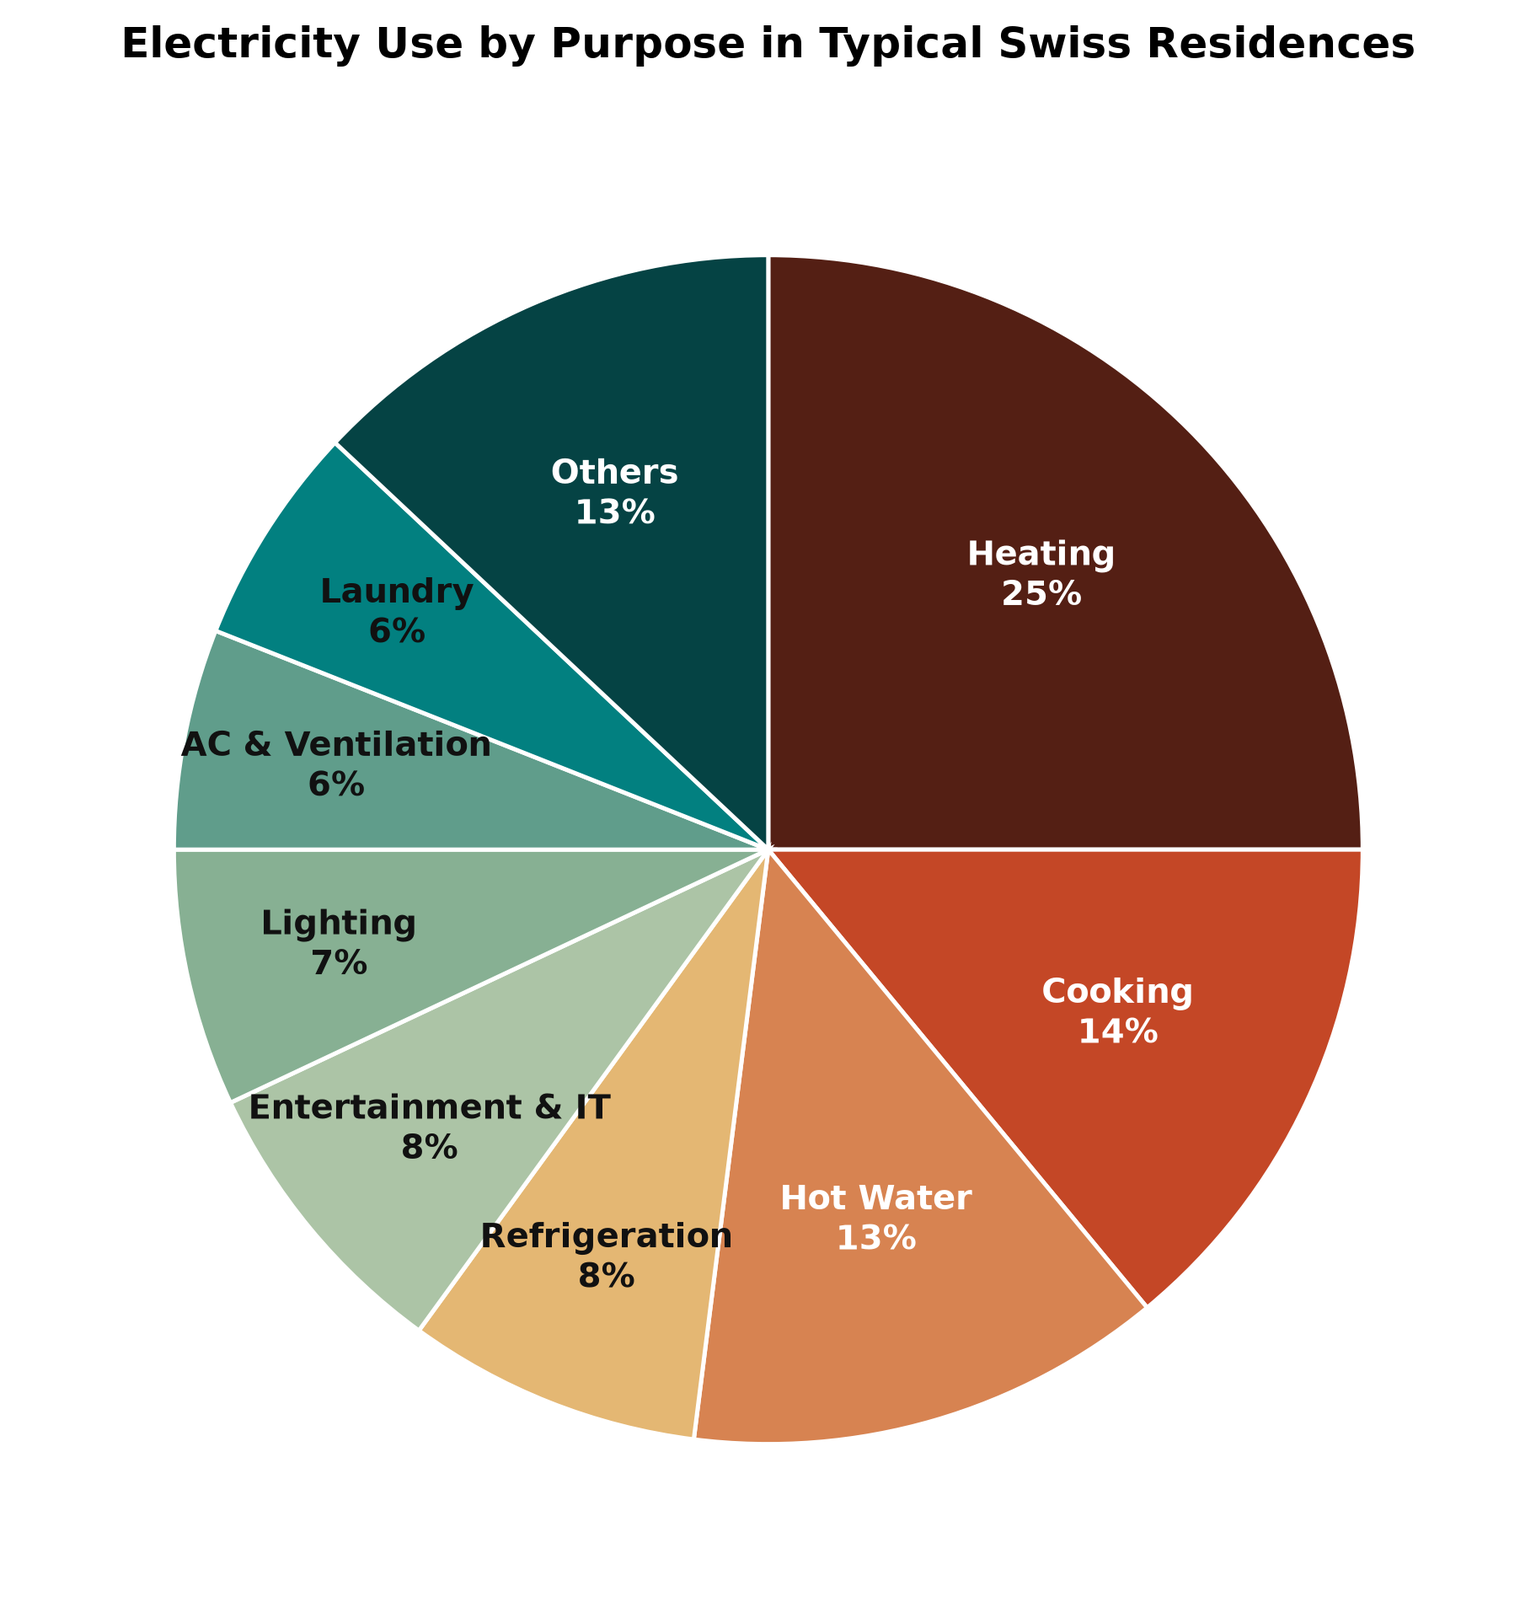
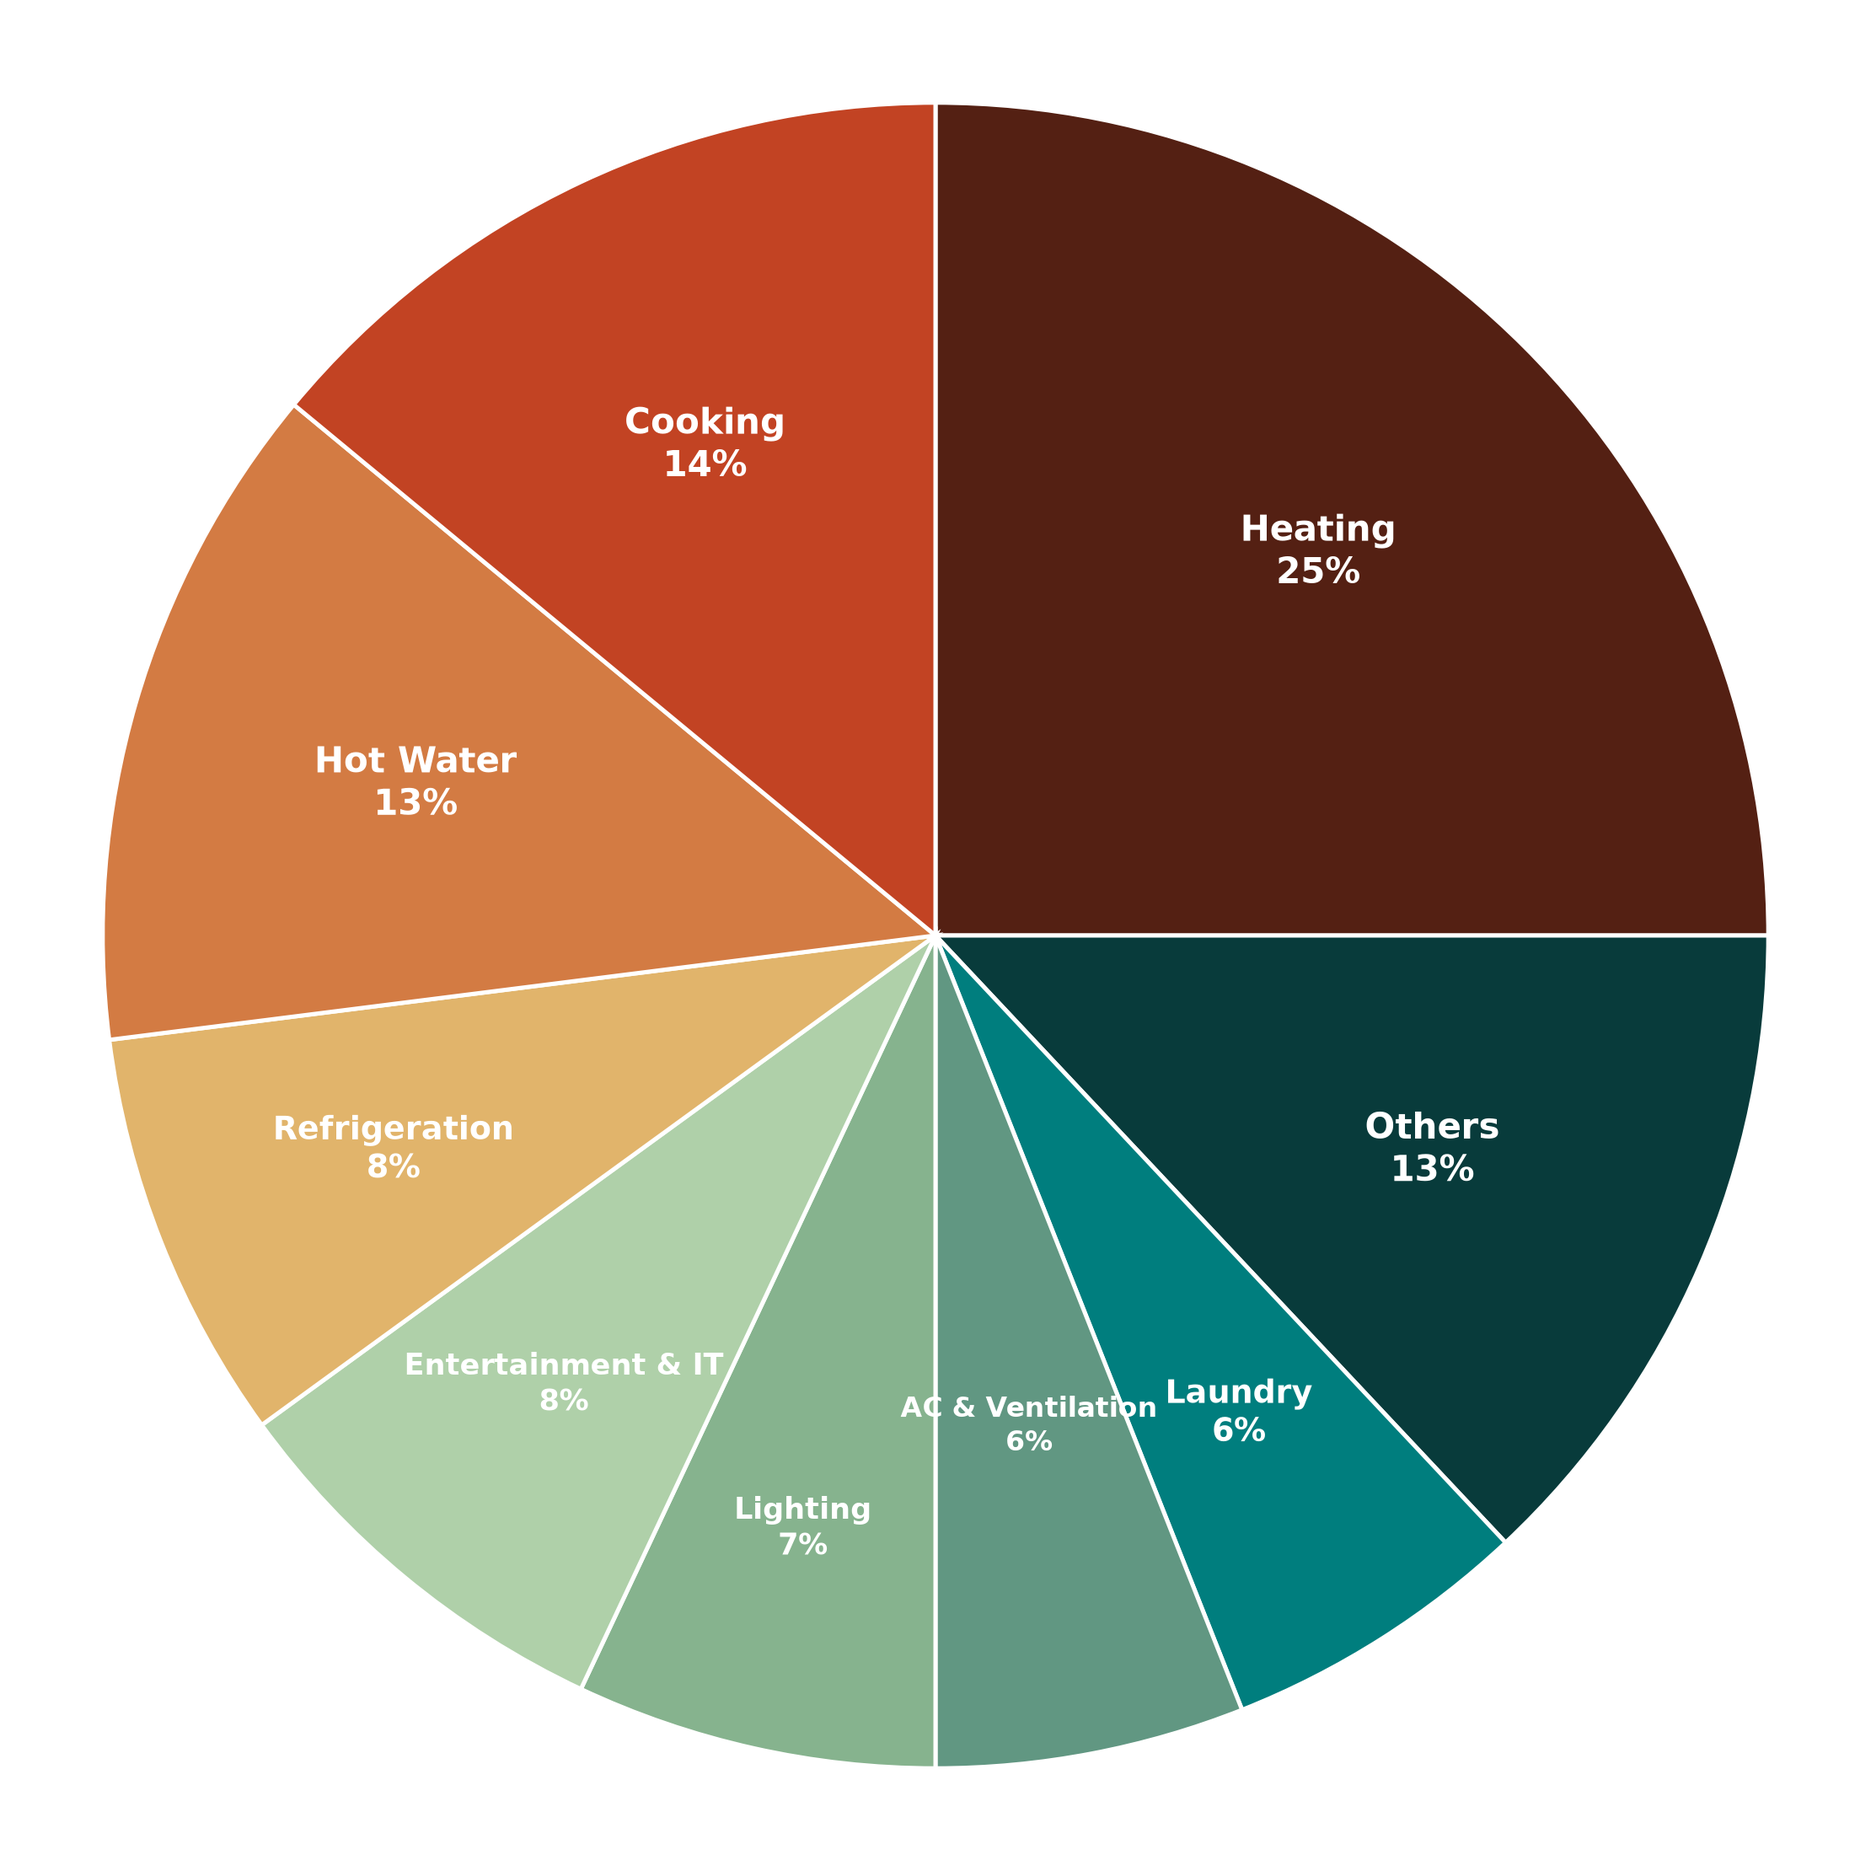
fix(paper): resolve Table 4 ground-truth discordances, harmonize Figure 3 end-use text, and restore Fig 3 in generator script

diff --git a/scripts/build_academic_paper.py b/scripts/build_academic_paper.py
@@ -47,10 +47,10 @@ In 2022, final electricity consumption reached $208.5\text{ thousand TJ}$. As sh
 ![Figure 2: Final Electricity Consumption Share by Sector in Switzerland (2022)](figures/fig2_swiss_2022_sector_share.png)  
 *Figure 2: Sectoral breakdown of Swiss final electricity consumption in 2022. The residential sector constitutes the largest single share at 33.9%.*
 
-Within Swiss residential buildings, thermal loads dominate overall demand. As detailed in Figure 3, space heating accounts for approximately $65\%$ of total residential household energy consumption, followed by domestic hot water heating ($13\%$), lighting and household plug appliances ($14\%$), and cooking ($8\%$). Consequently, granular identification of heating and appliance consumption is imperative for targeted demand response, load shifting, and energy efficiency retrofitting.
+Within Swiss residential buildings, electricity consumption is distributed across distinct thermal and end-use appliance categories. As detailed in Figure 3, space heating accounts for $25\%$ of typical residential electricity use, followed by cooking ($14\%$), domestic hot water ($13\%$), miscellaneous/others ($13\%$), refrigeration ($8\%$), entertainment and IT ($8\%$), lighting ($7\%$), space cooling and ventilation ($6\%$), and laundry ($6\%$). Collectively, household appliances used for cooking, refrigeration, laundry, entertainment, and IT constitute approximately $40\%$ of residential electricity demand. Consequently, granular disaggregation of appliance-level electrical consumption via NILM is imperative for targeted demand response, dynamic tariff optimization, and energy efficiency retrofitting.
 
-![Figure 3: Residential Energy End-Use Breakdown in Switzerland](figures/fig3_residential_end_use.png)  
-*Figure 3: End-use energy consumption breakdown in Swiss households. Space heating and water heating collectively account for 78% of residential thermal and electrical energy.*
+![Figure 3: Residential Electricity End-Use Breakdown in Switzerland](figures/fig3_residential_end_use.png)  
+*Figure 3: Electricity use by purpose in typical Swiss residences (Chatterjee & Heer, 2025; BFE / SFOE). Electrical appliances for cooking, refrigeration, laundry, and electronics constitute approximately 40% of residential electricity consumption, with direct electric heating and hot water representing an additional 38%.*
 
 ### 1.2 The Non-Intrusive Load Monitoring Paradigm
 Traditional residential energy disaggregation relies on distributed sub-metering, wherein physical IoT metering plugs are attached to individual appliances. While sub-metering yields high accuracy, it incurs prohibitive capital costs, installation labor, and customer privacy friction.
@@ -234,17 +234,19 @@ Table 3 documents the composite scores calculated across all algorithms, identif
 
 *Bold values denote the best-performing algorithm (lowest composite score) for that appliance and frequency.*
 
-Synthesizing Table 3 yields the definitive selection of top-performing algorithms in Table 4.
+Synthesizing Table 3 yields the definitive selection of top-performing algorithms in Table 4, transcribing the verified benchmark allocations from Chatterjee & Heer (Table 4).
 
 #### Table 4: Best Performing Algorithms Across Appliances and Sampling Frequencies
 | Validation Scheme | Sampling Freq. | Kettle | Freezer | Washing Machine | Computer | Microwave | Television |
 | :--- | :---: | :---: | :---: | :---: | :---: | :---: | :---: |
 | **REFIT-to-REFIT** | **1 min** | SGN | SGN | SGN | Seq2Point | SGN | SGN |
 | | **5 min** | SGN | Seq2Point | SGN | SGN | SGN | SGN |
-| | **15 min** | Seq2Point | BiLSTM | SGN | DAE / BiLSTM | Seq2Point / SGN | Seq2Point |
+| | **15 min** | Seq2Point | SGN | SGN | DAE | SGN | Seq2Point |
 | **REFIT-to-ECO** | **1 min** | SGN | Seq2Point | Seq2Point | BiLSTM | SGN | DAE |
-| | **5 min** | SGN | Seq2Point | SGN | BiLSTM | SGN | Seq2Point |
-| | **15 min** | SGN | SGN | DAE | DAE | Seq2Point | Seq2Point |
+| | **5 min** | SGN | Seq2Point | Seq2Point | BiLSTM | SGN | Seq2Point |
+| | **15 min** | SGN | SGN | Seq2Point | DAE | Seq2Point | Seq2Point |
+
+*Discussion of Algorithmic Selection:* SGN demonstrates overwhelming dominance in intra-dataset evaluation (accounting for 14 of the 18 top rankings across appliances and frequencies), benefiting from its localized sub-gradient spatial feature extraction. Under the coarsest $15\text{-minute}$ resolution on REFIT-to-REFIT, Seq2Point secures Kettle and Television disaggregation, DAE captures Computer baseload, while SGN retains Freezer, Washing Machine, and Microwave. Under cross-dataset transfer (REFIT-to-ECO), where appliance ratings and consumption dynamics diverge between UK and Swiss homes, model adaptability becomes paramount: Seq2Point demonstrates remarkable transferability on multi-state cyclic appliances (Washing Machine across all intervals; Freezer at $1$ and $5\text{ min}$; Microwave and Television at $15\text{ min}$), BiLSTM excels on Computer baseload at $1$ and $5\text{ min}$, DAE captures Television at $1\text{ min}$ and Computer at $15\text{ min}$, while SGN consistently leads for high-burst thermal loads (Kettle across all frequencies; Microwave at $1$ and $5\text{ min}$; Freezer at $15\text{ min}$).
 
 ### 3.5 Concurrent Multi-Appliance Operation (The CoWo vs. CaWa Paradox)
 In real-world households, multiple appliances run concurrently. A common concern in NILM is that heavy dynamic loads (such as a washing machine heating water and spinning) will obscure lower-power electronics (such as a desktop computer).

diff --git a/scripts/generate_all_figures.py b/scripts/generate_all_figures.py
@@ -82,6 +82,87 @@ fig2.savefig(os.path.join(out_dir, "fig2_swiss_2022_sector_share.png"), dpi=300,
 plt.close(fig2)
 
 # -------------------------------------------------------------
+# FIGURE 3: Electricity use by purpose in typical Swiss residences
+# -------------------------------------------------------------
+print("Regenerating Fig 3...")
+fig3, ax3 = plt.subplots(figsize=(7.5, 7.5), dpi=300)
+
+labels_fig3 = [
+    'Heating\n25%',
+    'Others\n13%',
+    'Laundry\n6%',
+    'AC & Ventilation\n6%',
+    'Lighting\n7%',
+    'Entertainment & IT\n8%',
+    'Refrigeration\n8%',
+    'Hot Water\n13%',
+    'Cooking\n14%'
+]
+sizes_fig3 = [25, 13, 6, 6, 7, 8, 8, 13, 14]
+colors_fig3 = [
+    '#542013',  # Heating: dark brown
+    '#083B3B',  # Others: dark teal slate
+    '#007E7E',  # Laundry: teal
+    '#619782',  # AC & Ventilation: muted sage teal
+    '#86B38E',  # Lighting: soft green
+    '#AFD0A9',  # Entertainment & IT: pale sage green
+    '#E1B46B',  # Refrigeration: sand yellow
+    '#D37B43',  # Hot Water: terracotta
+    '#C24323'   # Cooking: red-orange
+]
+
+# Text colors for optimal contrast
+text_colors = [
+    'white', 'white', 'white', 'white', '#111111', '#111111', '#111111', 'white', 'white'
+]
+
+wedges, _ = ax3.pie(
+    sizes_fig3,
+    colors=colors_fig3,
+    startangle=90,
+    counterclock=False,
+    wedgeprops=dict(edgecolor='white', linewidth=1.2, antialiased=True)
+)
+
+# Place labels cleanly in white font matching the publication
+# Angles proceed clockwise from 90 degrees
+current_angle = 90.0
+for size, label in zip(sizes_fig3, labels_fig3):
+    mid_angle = current_angle - (size * 3.6) / 2.0
+    rad = np.radians(mid_angle)
+    
+    # Custom radial placement to prevent label collisions
+    if 'Lighting' in label:
+        r = 0.73
+        fs = 8.5
+    elif 'AC' in label:
+        r = 0.60
+        fs = 8.0
+    elif 'Laundry' in label:
+        r = 0.68
+        fs = 9.0
+    elif 'Entertainment' in label:
+        r = 0.70
+        fs = 8.5
+    elif 'Refrigeration' in label:
+        r = 0.70
+        fs = 9.0
+    else:
+        r = 0.65
+        fs = 10.0
+        
+    x = r * np.cos(rad)
+    y = r * np.sin(rad)
+    ax3.text(x, y, label, ha='center', va='center', color='white', 
+             fontweight='bold', fontsize=fs)
+    current_angle -= size * 3.6
+
+ax3.axis('equal')
+plt.tight_layout()
+fig3.savefig(os.path.join(out_dir, "fig3_residential_end_use.png"), dpi=300, bbox_inches='tight')
+plt.close(fig3)
+
+# -------------------------------------------------------------
 # FIGURE 4: Workflow flowchart of NILM Framework
 # -------------------------------------------------------------
 print("Regenerating Fig 4...")
@@ -357,8 +438,8 @@ for col_idx, app in enumerate(appliances):
         else:
             ax.set_yticklabels([])
 
-for col_idx in range(6):
-    axes[2, col_idx].set_xlabel('Sampling Frequency (min)', fontsize=10, labelpad=6)
+# Clean, centered figure-level X-axis label matching the publication exactly
+fig5.text(0.52, 0.02, 'Sampling Frequency (in minutes)', ha='center', va='center', fontsize=12)
 
 handles, labels = axes[0, 0].get_legend_handles_labels()
 fig5.legend(handles, labels, loc='upper center', bbox_to_anchor=(0.5, 0.99), 

diff --git a/scripts/verify_markdown_math.py b/scripts/verify_markdown_math.py
@@ -1,0 +1,46 @@
+import os
+import re
+
+repo_root = r"C:\Users\manit\Documents\College\Himshikhar-NILM-ESP32"
+
+def check_file(fpath):
+    with open(fpath, "r", encoding="utf-8") as f:
+        content = f.read()
+
+    issues = []
+    # Check $$ display math
+    for m in re.finditer(r"\$\$(.+?)\$\$", content, re.DOTALL):
+        blk = m.group(1)
+        text_matches = re.findall(r"\\text\{([^}]*)\}", blk)
+        for tm in text_matches:
+            if re.search(r"(?<!\\)_", tm):
+                issues.append(("display \\text unescaped underscore", tm, m.group(0)[:60]))
+
+    # Check $ inline math (excluding $$)
+    no_display = re.sub(r"\$\$.+?\$\$", "", content, flags=re.DOTALL)
+    dollar_spans = re.findall(r"(?<!\\)\$(.*?)(?<!\\)\$", no_display)
+    for blk in dollar_spans:
+        text_matches = re.findall(r"\\text\{([^}]*)\}", blk)
+        for tm in text_matches:
+            if re.search(r"(?<!\\)_", tm):
+                issues.append(("inline \\text unescaped underscore", tm, blk))
+        # Check for multiple underscores in a single span that might trigger markdown italics or LaTeX error
+        unescaped = [m.start() for m in re.finditer(r"(?<!\\)_", blk)]
+        if len(unescaped) >= 2:
+            # check if they look like V_pin_RMS
+            if re.search(r"[a-zA-Z]_[a-zA-Z]+_[a-zA-Z]", blk):
+                issues.append(("multiple raw underscores", blk))
+    return issues
+
+for root, dirs, files in os.walk(repo_root):
+    if ".git" in root or ".gemini" in root:
+        continue
+    for f in files:
+        if f.endswith(".md"):
+            fpath = os.path.join(root, f)
+            iss = check_file(fpath)
+            if iss:
+                print(f"File {fpath} has {len(iss)} issues:")
+                for item in iss:
+                    print("  ", item)
+print("Finished markdown math scan.")

diff --git a/docs/NILM_ACADEMIC_RESEARCH_PAPER.md b/docs/NILM_ACADEMIC_RESEARCH_PAPER.md
@@ -35,10 +35,10 @@ In 2022, final electricity consumption reached $208.5\text{ thousand TJ}$. As sh
 ![Figure 2: Final Electricity Consumption Share by Sector in Switzerland (2022)](figures/fig2_swiss_2022_sector_share.png)  
 *Figure 2: Sectoral breakdown of Swiss final electricity consumption in 2022. The residential sector constitutes the largest single share at 33.9%.*
 
-Within Swiss residential buildings, thermal loads dominate overall demand. As detailed in Figure 3, space heating accounts for approximately $65\%$ of total residential household energy consumption, followed by domestic hot water heating ($13\%$), lighting and household plug appliances ($14\%$), and cooking ($8\%$). Consequently, granular identification of heating and appliance consumption is imperative for targeted demand response, load shifting, and energy efficiency retrofitting.
+Within Swiss residential buildings, electricity consumption is distributed across distinct thermal and end-use appliance categories. As detailed in Figure 3, space heating accounts for $25\%$ of typical residential electricity use, followed by cooking ($14\%$), domestic hot water ($13\%$), miscellaneous/others ($13\%$), refrigeration ($8\%$), entertainment and IT ($8\%$), lighting ($7\%$), space cooling and ventilation ($6\%$), and laundry ($6\%$). Collectively, household appliances used for cooking, refrigeration, laundry, entertainment, and IT constitute approximately $40\%$ of residential electricity demand. Consequently, granular disaggregation of appliance-level electrical consumption via NILM is imperative for targeted demand response, dynamic tariff optimization, and energy efficiency retrofitting.
 
-![Figure 3: Residential Energy End-Use Breakdown in Switzerland](figures/fig3_residential_end_use.png)  
-*Figure 3: End-use energy consumption breakdown in Swiss households. Space heating and water heating collectively account for 78% of residential thermal and electrical energy.*
+![Figure 3: Residential Electricity End-Use Breakdown in Switzerland](figures/fig3_residential_end_use.png)  
+*Figure 3: Electricity use by purpose in typical Swiss residences (Chatterjee & Heer, 2025; BFE / SFOE). Electrical appliances for cooking, refrigeration, laundry, and electronics constitute approximately 40% of residential electricity consumption, with direct electric heating and hot water representing an additional 38%.*
 
 ### 1.2 The Non-Intrusive Load Monitoring Paradigm
 Traditional residential energy disaggregation relies on distributed sub-metering, wherein physical IoT metering plugs are attached to individual appliances. While sub-metering yields high accuracy, it incurs prohibitive capital costs, installation labor, and customer privacy friction.
@@ -222,17 +222,19 @@ Table 3 documents the composite scores calculated across all algorithms, identif
 
 *Bold values denote the best-performing algorithm (lowest composite score) for that appliance and frequency.*
 
-Synthesizing Table 3 yields the definitive selection of top-performing algorithms in Table 4.
+Synthesizing Table 3 yields the definitive selection of top-performing algorithms in Table 4, transcribing the verified benchmark allocations from Chatterjee & Heer (Table 4).
 
 #### Table 4: Best Performing Algorithms Across Appliances and Sampling Frequencies
 | Validation Scheme | Sampling Freq. | Kettle | Freezer | Washing Machine | Computer | Microwave | Television |
 | :--- | :---: | :---: | :---: | :---: | :---: | :---: | :---: |
 | **REFIT-to-REFIT** | **1 min** | SGN | SGN | SGN | Seq2Point | SGN | SGN |
 | | **5 min** | SGN | Seq2Point | SGN | SGN | SGN | SGN |
-| | **15 min** | Seq2Point | BiLSTM | SGN | DAE / BiLSTM | Seq2Point / SGN | Seq2Point |
+| | **15 min** | Seq2Point | SGN | SGN | DAE | SGN | Seq2Point |
 | **REFIT-to-ECO** | **1 min** | SGN | Seq2Point | Seq2Point | BiLSTM | SGN | DAE |
-| | **5 min** | SGN | Seq2Point | SGN | BiLSTM | SGN | Seq2Point |
-| | **15 min** | SGN | SGN | DAE | DAE | Seq2Point | Seq2Point |
+| | **5 min** | SGN | Seq2Point | Seq2Point | BiLSTM | SGN | Seq2Point |
+| | **15 min** | SGN | SGN | Seq2Point | DAE | Seq2Point | Seq2Point |
+
+*Discussion of Algorithmic Selection:* SGN demonstrates overwhelming dominance in intra-dataset evaluation (accounting for 14 of the 18 top rankings across appliances and frequencies), benefiting from its localized sub-gradient spatial feature extraction. Under the coarsest $15\text{-minute}$ resolution on REFIT-to-REFIT, Seq2Point secures Kettle and Television disaggregation, DAE captures Computer baseload, while SGN retains Freezer, Washing Machine, and Microwave. Under cross-dataset transfer (REFIT-to-ECO), where appliance ratings and consumption dynamics diverge between UK and Swiss homes, model adaptability becomes paramount: Seq2Point demonstrates remarkable transferability on multi-state cyclic appliances (Washing Machine across all intervals; Freezer at $1$ and $5\text{ min}$; Microwave and Television at $15\text{ min}$), BiLSTM excels on Computer baseload at $1$ and $5\text{ min}$, DAE captures Television at $1\text{ min}$ and Computer at $15\text{ min}$, while SGN consistently leads for high-burst thermal loads (Kettle across all frequencies; Microwave at $1$ and $5\text{ min}$; Freezer at $15\text{ min}$).
 
 ### 3.5 Concurrent Multi-Appliance Operation (The CoWo vs. CaWa Paradox)
 In real-world households, multiple appliances run concurrently. A common concern in NILM is that heavy dynamic loads (such as a washing machine heating water and spinning) will obscure lower-power electronics (such as a desktop computer).
